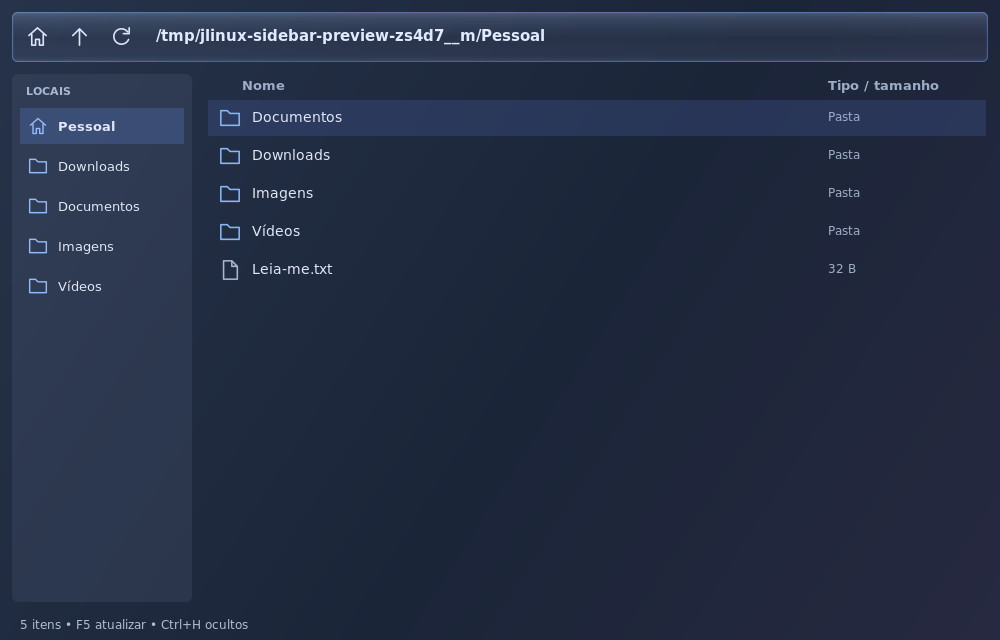
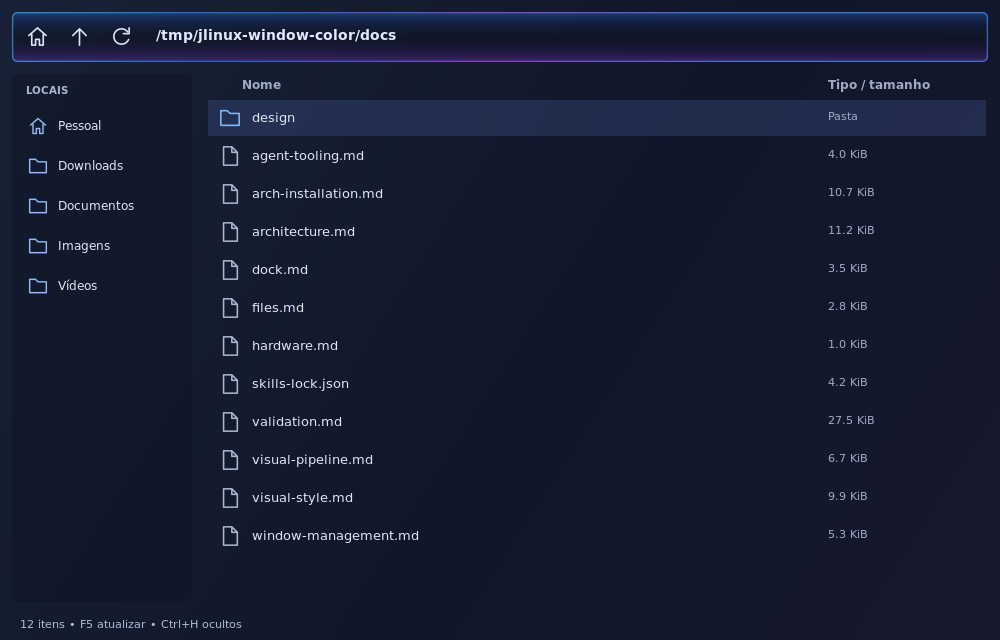
feat: emphasize blue and violet window accents

diff --git a/src/effects/glass.c b/src/effects/glass.c
@@ -114,22 +114,22 @@ bool jlinux_glass_settings(struct jlinux_glass *effects) {
 void jlinux_glass_window_reflections(cairo_t *cr, struct ui_rect rect, double radius, double header) {
     cairo_save(cr); rounded(cr, rect, radius); cairo_clip(cr);
     cairo_pattern_t *sheen = cairo_pattern_create_linear(0, rect.y, 0, rect.y + header);
-    cairo_pattern_add_color_stop_rgba(sheen, 0, .63, .77, 1, .12);
-    cairo_pattern_add_color_stop_rgba(sheen, .18, .34, .51, .85, .07);
+    cairo_pattern_add_color_stop_rgba(sheen, 0, .20, .55, 1, .36);
+    cairo_pattern_add_color_stop_rgba(sheen, .18, .12, .32, .78, .20);
     cairo_pattern_add_color_stop_rgba(sheen, .52, .02, .04, .09, .08);
-    cairo_pattern_add_color_stop_rgba(sheen, .86, .18, .24, .42, .04);
-    cairo_pattern_add_color_stop_rgba(sheen, 1, .65, .72, .94, .12);
+    cairo_pattern_add_color_stop_rgba(sheen, .86, .45, .16, .78, .22);
+    cairo_pattern_add_color_stop_rgba(sheen, 1, .58, .32, 1, .30);
     cairo_save(cr); cairo_rectangle(cr, rect.x, rect.y, rect.width, header); cairo_clip(cr);
     cairo_set_source(cr, sheen); cairo_paint(cr); cairo_restore(cr); cairo_pattern_destroy(sheen);
     /* A continuous chromatic rim avoids isolated white light sources. */
     for (int pass = 0; pass < 2; pass++) {
         cairo_pattern_t *edge = cairo_pattern_create_linear(rect.x, rect.y,
             rect.x + rect.width * .75, rect.y + rect.height);
-        double alpha = pass ? .94 : .18;
-        cairo_pattern_add_color_stop_rgba(edge, 0, .22, .62, 1, alpha);
-        cairo_pattern_add_color_stop_rgba(edge, .32, .14, .40, 1, alpha * .90);
-        cairo_pattern_add_color_stop_rgba(edge, .66, .62, .23, 1, alpha * .96);
-        cairo_pattern_add_color_stop_rgba(edge, 1, .25, .52, 1, alpha);
+        double alpha = pass ? .98 : .40;
+        cairo_pattern_add_color_stop_rgba(edge, 0, .24, .72, 1, alpha);
+        cairo_pattern_add_color_stop_rgba(edge, .32, .16, .48, 1, alpha * .90);
+        cairo_pattern_add_color_stop_rgba(edge, .66, .76, .30, 1, alpha * .96);
+        cairo_pattern_add_color_stop_rgba(edge, 1, .32, .60, 1, alpha);
         rounded(cr, rect, radius); cairo_set_source(cr, edge);
         cairo_set_line_width(cr, pass ? .85 : 2.8); cairo_stroke(cr);
         cairo_pattern_destroy(edge);

diff --git a/docs/visual-style.md b/docs/visual-style.md
@@ -94,3 +94,11 @@ Quatorze testes locais release e ASan/UBSan passaram. Teste da moldura passa a c
 O toolkit nativo aplica 93% do tamanho nominal dos textos (aproximadamente 7% menor), compartilhado por shell, molduras, Arquivos e greeter. Não configura fontes do terminal nem de aplicativos externos. O material compartilhado usa tonalização azul-preta mais escura e menor reflexão ampla sobre as superfícies, com contornos azuis/violetas mais saturados e intensos. A espessura dos contornos permanece igual. Arquivos recebe também um gradiente de fundo mais escuro; wallpaper e ícones permanecem preservados.
 
 Os controles independentes de tint/reflection continuam respeitados. São novos valores padrão compilados, sem editor de tema ou recarga ao vivo. Não comprovam fidelidade às fotos nem desempenho de GPU. Prévias do shell, Arquivos e moldura foram inspecionadas; comparação antes/depois de Arquivos na mesma resolução mostrou a redução da fonte e o escurecimento das superfícies.
+
+### Maior realce nas cores das janelas
+
+Nesta iteração, o cabeçalho ganha reflexo azul mais intenso no topo e violeta na base. O contorno usa azul/ciano e violeta mais vivos, com maior opacidade no halo interno existente. Mantidas as espessuras de 0,85 px e 2,8 px, as bordas físicas de 3 px e o fundo escuro. O material compartilhado também atualiza a barra interna de Arquivos e o acabamento do login; painel/dock usam outro caminho de pintura.
+
+REFLECTION continua controlando esse realce independentemente de TINT, SHADOW e BLUR. São apenas valores de cor/opacidade: nenhum passe, buffer, timer ou animação adicional. Não é alteração das cores do conteúdo de aplicativos externos.
+
+Prévias nativas de moldura e Arquivos atualizadas e inspecionadas antes/depois. Uma prévia temporária de moldura também foi renderizada a 1670×941 para comparação com a primeira referência do usuário: contorno azul/violeta e fundo escuro preservados; materiais, composição e proporções da referência ainda não são reproduzidos integralmente. Não é captura da sessão ativa nem promessa de fidelidade exata.

diff --git a/TASKS.md b/TASKS.md
@@ -309,3 +309,9 @@ Dezenove testes release passaram nesta base. ASan/UBSan e empacotamento registra
 
 
 **SHELL-VOLUME · instalado/ativo:** pacote `0.5.0.r61.g841643c-1`, fonte 841643c, com 21 testes de pacote aprovados. Integra o layout automático de #42 para preservar a instalação concorrente c1bcc75. Cliente transitório instalado mapeou `jlinux-volume-button` na sessão greetd 3 do boot atual (PID 23834; shell principal 719 preservado). Log: `/tmp/jlinux-volume-live-kfk36qww/volume.log`. Backend C consultou a saída real a 40%, sem mute, simulando runtime Wayland privado; nenhuma alteração de volume ou reprodução de som real foi feita. Shell normal inclui o botão no próximo login; compositor/dock/aplicativos ativos preservados. PR #43, base temporária feature/window-auto-layout, CI parcialmente concluída no registro. Validação auditiva física pelo usuário pendente.
+
+## Realce de cor das janelas — feature/window-color-accent
+
+- **VISUAL-COLOR · implementado na branch:** aumentadas saturação/opacidade do reflexo azul/violeta e do halo interno já existente em `jlinux_glass_window_reflections`. Mesmas espessuras, passes e ativação independente por REFLECTION. Callers: molduras, barra de Arquivos e login; pintura do painel/dock preservada.
+- 21 testes locais release passaram, incluindo efeitos independentes e continuidade cromática das molduras; `git diff --check` passou. Prévias nativas de moldura/Arquivos inspecionadas antes/depois; prévia temporária de moldura a 1670×941 comparada à referência principal. Sem afirmar fidelidade completa, validação física ou ganho de desempenho. Não houve novo sanitizer/benchmark: apenas constantes de cor/opacidade mudaram.
+- Base temporária `feature/panel-volume` (PR #43), para preservar o tema escuro atual. Instalação observada `jlinux-desktop-git 0.5.0.r61.g841643c-1`; esta alteração não foi instalada. Sessão greetd preservada, sem VT, DRM, logout ou reinício.

diff --git a/docs/design/README.md b/docs/design/README.md
@@ -69,3 +69,7 @@ As prévias nativas de moldura e Arquivos acima foram atualizadas: sem pontos fo
 ![Lista nativa para fixar aplicativos](native-dock-apps-preview.png)
 
 Prévia renderizada por `jlinux-shell --preview-dock-apps`, sem captura da sessão. O botão + foi adicionado ao dock preservando suas dimensões; aplicativos adicionais usam monogramas nesta etapa.
+
+### Realce de cor nas janelas
+
+As prévias de moldura e Arquivos foram atualizadas com azul/ciano e violeta mais intensos no contorno e reflexos mais presentes no cabeçalho. O fundo permanece escuro e a borda fina. São prévias de componentes nativos; não representam a sessão instalada nem o conteúdo de aplicativos externos.
